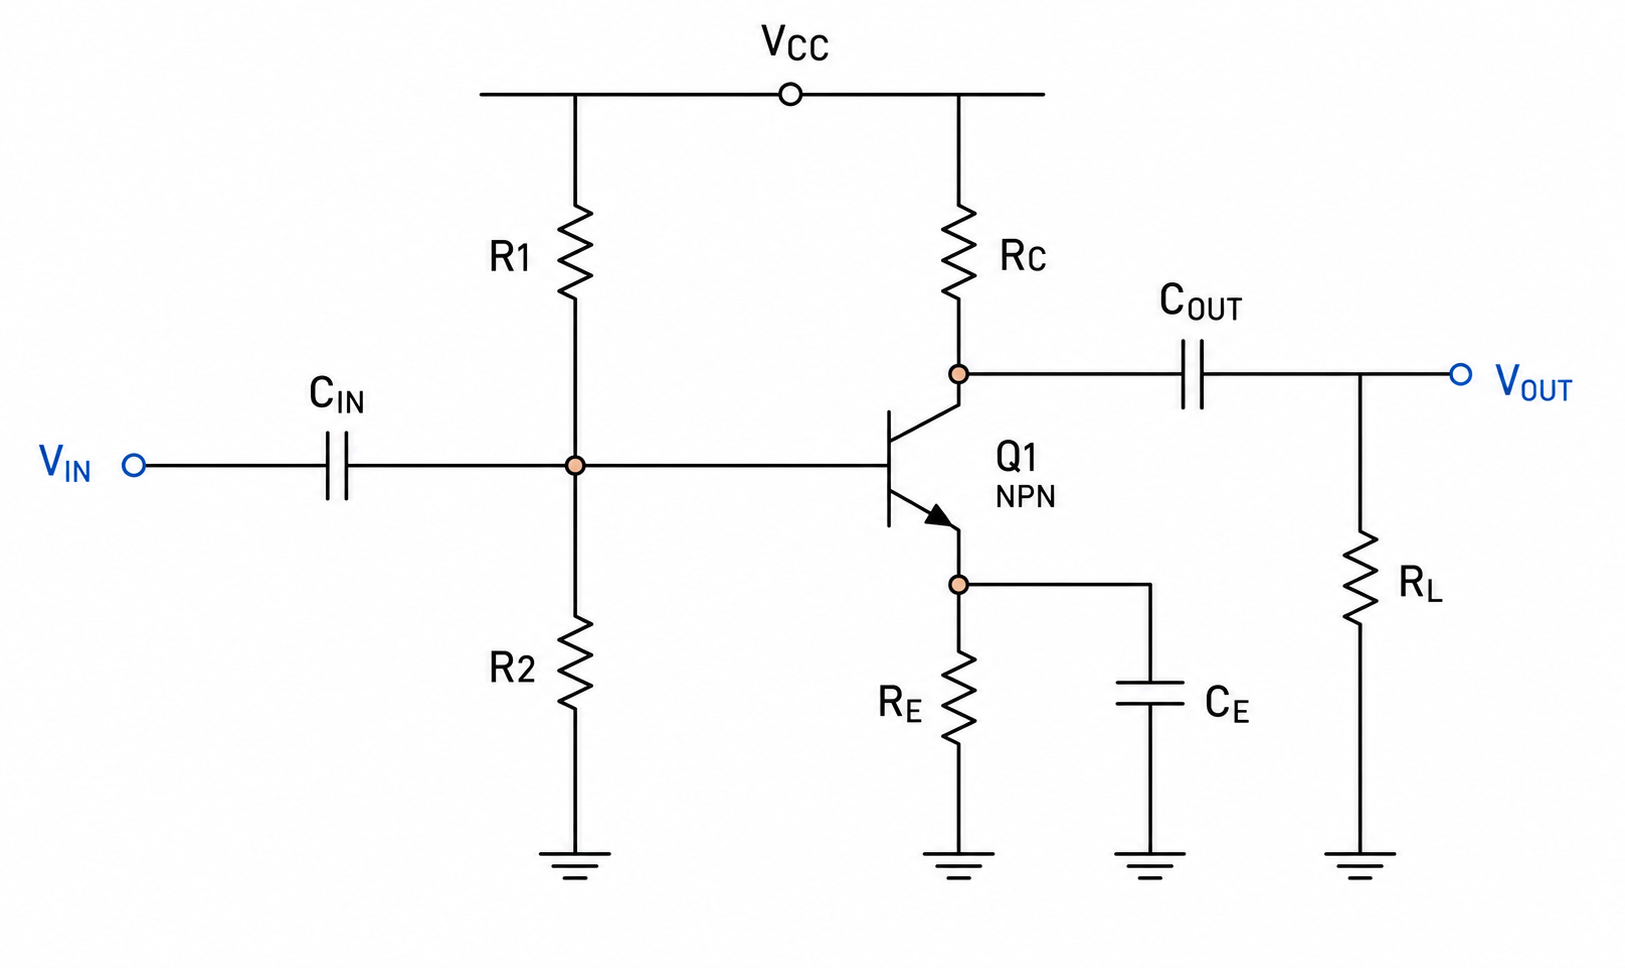
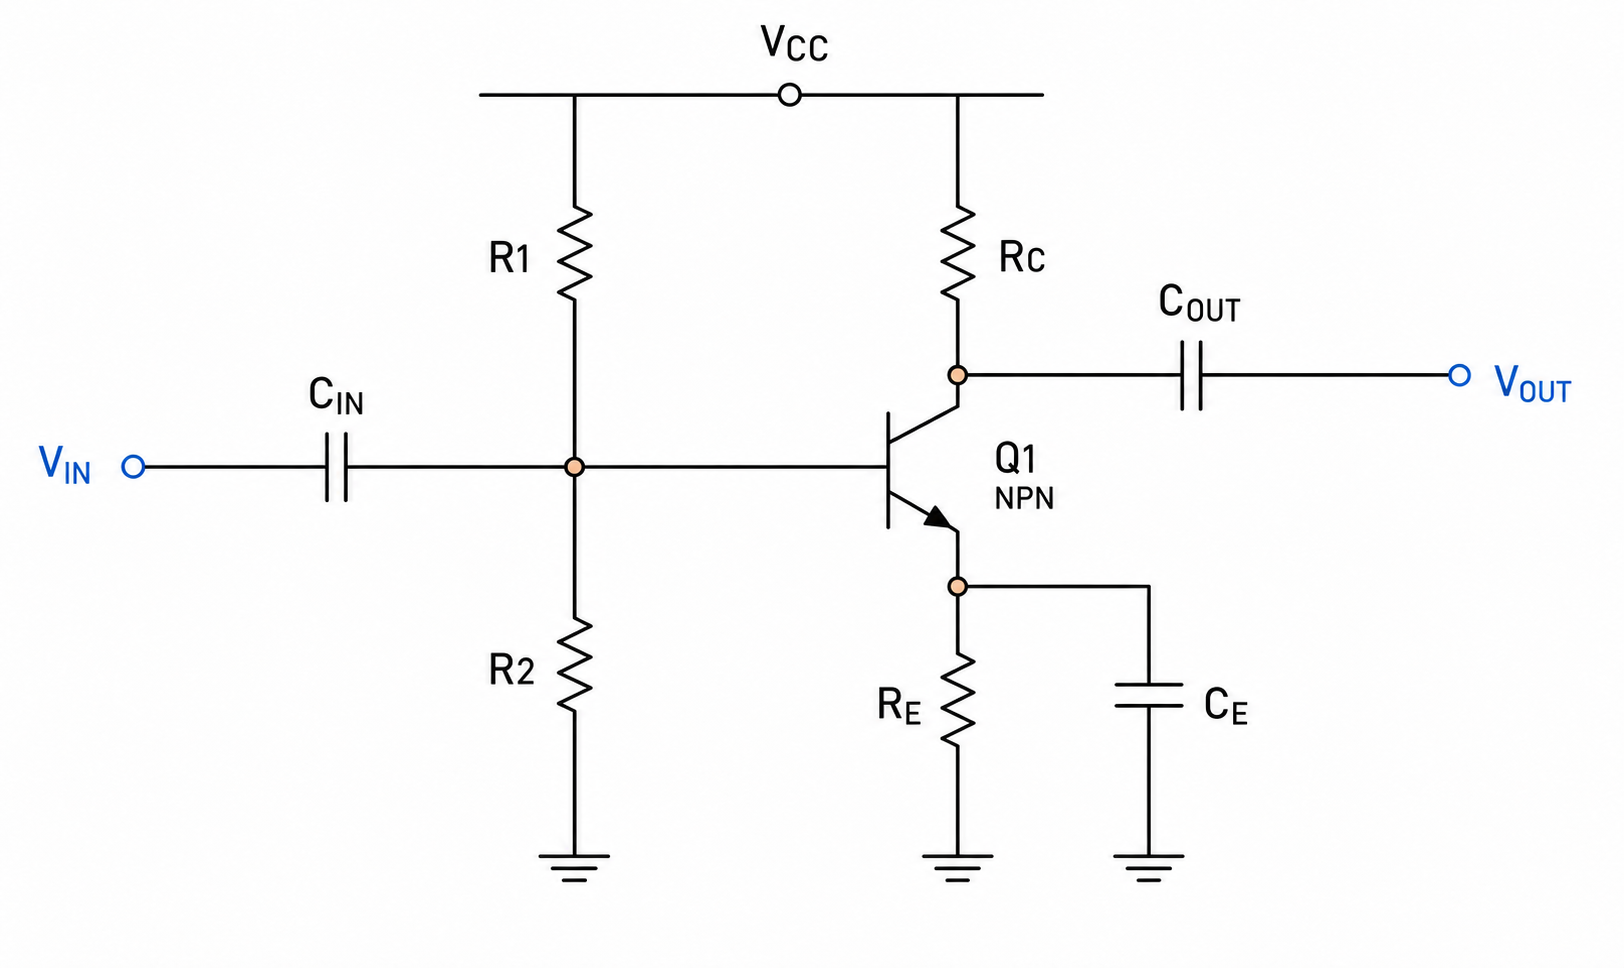
class a fixed

diff --git a/class-a.html b/class-a.html
@@ -35,15 +35,15 @@
       <a class="iae-back-command" href="tools.html">Back to tools</a>
       <p class="eyebrow">Instrument 001 / Amplification</p>
       <h2>Class A Transistor Amplifier Calculator</h2>
-      <p>Calculate the DC operating point and bypassed-emitter small-signal performance of a voltage-divider biased common-emitter amplifier.</p>
+      <p>Calculate unloaded midband voltage gain and verify the DC operating point of a voltage-divider biased common-emitter amplifier.</p>
     </div>
 
     <div class="iae-tool-layout">
       <div class="iae-tool-reference">
         <figure class="iae-technical-plate">
           <figcaption><span>Fig. 01</span> Voltage-divider biased Class A stage</figcaption>
-          <a class="iae-circuit-zoom" href="assets/class-a-amplifier-hd.png" target="_blank" title="Open full-resolution amplifier circuit">
-            <img src="assets/class-a-amplifier-hd.png" alt="Class A NPN transistor amplifier with divider bias">
+          <a class="iae-circuit-zoom" href="assets/class-a-amplifier-hd.png?v=20260621b" target="_blank" title="Open full-resolution amplifier circuit">
+            <img src="assets/class-a-amplifier-hd.png?v=20260621b" alt="Class A NPN transistor amplifier with divider bias">
           </a>
         </figure>
 
@@ -55,20 +55,25 @@
             <div class="iae-formula-row"><span>Collector and emitter currents</span><math display="block"><msub><mi>I</mi><mi>C</mi></msub><mo>=</mo><mi>beta</mi><msub><mi>I</mi><mi>B</mi></msub><mspace width="1em"/><msub><mi>I</mi><mi>E</mi></msub><mo>=</mo><mrow><mo>(</mo><mi>beta</mi><mo>+</mo><mn>1</mn><mo>)</mo></mrow><msub><mi>I</mi><mi>B</mi></msub></math></div>
             <div class="iae-formula-row"><span>Q-point voltage</span><math display="block"><msub><mi>V</mi><mi>CE</mi></msub><mo>=</mo><msub><mi>V</mi><mi>CC</mi></msub><mo>-</mo><msub><mi>I</mi><mi>C</mi></msub><msub><mi>R</mi><mi>C</mi></msub><mo>-</mo><msub><mi>I</mi><mi>E</mi></msub><msub><mi>R</mi><mi>E</mi></msub></math></div>
             <div class="iae-formula-row"><span>Intrinsic emitter resistance</span><math display="block"><msub><mi>r</mi><mi>e</mi></msub><mo>approximately</mo><mfrac><msub><mi>V</mi><mi>T</mi></msub><msub><mi>I</mi><mi>E</mi></msub></mfrac></math></div>
-            <div class="iae-formula-row"><span>Loaded voltage gain</span><math display="block"><msub><mi>A</mi><mi>v</mi></msub><mo>approximately</mo><mo>-</mo><mfrac><mrow><msub><mi>R</mi><mi>C</mi></msub><mo>parallel</mo><msub><mi>R</mi><mi>L</mi></msub></mrow><msub><mi>r</mi><mi>e</mi></msub></mfrac></math></div>
+            <div class="iae-formula-row"><span>Unloaded midband voltage gain</span><math display="block"><msub><mi>A</mi><mi>v</mi></msub><mo>approximately</mo><mo>-</mo><mfrac><msub><mi>R</mi><mi>C</mi></msub><msub><mi>r</mi><mi>e</mi></msub></mfrac></math></div>
             <div class="iae-formula-row"><span>Transistor dissipation</span><math display="block"><msub><mi>P</mi><mi>Q</mi></msub><mo>=</mo><msub><mi>V</mi><mi>CE</mi></msub><msub><mi>I</mi><mi>C</mi></msub></math></div>
           </div>
         </figure>
 
         <div class="iae-theory-note">
-          <h3>Model limits</h3>
-          <p>The calculation assumes a silicon NPN transistor, DC-coupled bias resistors, and capacitors that behave as AC shorts at the signal frequency. Beta and VBE vary substantially with device, temperature, and collector current.</p>
-          <p>Loaded gain uses RC in parallel with RL and a bypassed emitter. Real gain is reduced by transistor output resistance, source resistance, capacitor reactance, wiring parasitics, and loading by the following stage.</p>
+          <h3>Choosing the transistor bias</h3>
+          <p><strong>Choose the quiescent current first.</strong> Select ICQ from the transistor datasheet's recommended operating region, the required gain, noise, bandwidth, and permitted dissipation. For the bypassed-emitter model, |Av| is approximately RC / re and re is approximately 25.85 mV / IE, so increasing current raises gain but also raises heating and reduces available collector voltage.</p>
+          <p><strong>Use the transistor's VBE at that current.</strong> Do not assume 0.700 V for every device. Read the datasheet VBE versus IC curves, including temperature limits, or measure the intended transistor. Silicon small-signal devices are often between about 0.60 V and 0.75 V, but the calculator should use the value expected at ICQ and operating temperature.</p>
+          <p><strong>Place the Q-point for voltage swing.</strong> Choose VEQ, commonly around 10% to 20% of VCC, then set VBQ = VEQ + VBE. For approximately symmetrical collector swing, choose VCQ near (VCC + VEQ + VCE(sat)) / 2 and verify VCEQ, ICQ, and PQ = VCEQ ICQ remain within the datasheet safe operating area.</p>
+          <p><strong>Make the divider stiff enough.</strong> Estimate worst-case base current with the datasheet minimum beta, not its typical value. A practical divider current through R2 is five to ten times that base current. Then R2 is approximately VBQ / Idivider and R1 is approximately (VCC - VBQ) / (Idivider + IB). Recalculate the loaded divider with the minimum beta and check cutoff and saturation at temperature extremes.</p>
+
+          <h3>Gain model limits</h3>
+          <p>The displayed gain is the unloaded, bypassed-emitter midband estimate Av = -RC / re. The minus sign represents the common-emitter stage's 180-degree phase inversion. Actual gain is lower when CE is not an effective AC short, and because of source resistance, transistor output resistance, wiring parasitics, device bandwidth, and any external load connected to VOUT.</p>
         </div>
       </div>
 
       <aside class="iae-calculator-panel">
-        <div class="iae-calculator-header"><div><p class="eyebrow">Live computation</p><h3>Bias and Q-point</h3></div><div class="iae-model-badge">Common emitter / NPN</div></div>
+        <div class="iae-calculator-header"><div><p class="eyebrow">Live computation</p><h3>Gain and Q-point</h3></div><div class="iae-model-badge">Common emitter / NPN</div></div>
         <form data-class-a-form>
           <div class="iae-variable-grid">
             <label class="iae-variable-field"><span>Supply VCC</span><div><input name="vcc" type="number" min="0" step="any" value="9"><span class="iae-unit-static">V</span></div></label>
@@ -76,7 +81,6 @@
             <label class="iae-variable-field"><span>Divider R2</span><div><input name="r2" type="number" min="0" step="any" value="8.2"><select name="r2Unit"><option value="1">ohm</option><option value="1000" selected>kohm</option><option value="1000000">Mohm</option></select></div></label>
             <label class="iae-variable-field"><span>Collector resistor RC</span><div><input name="rc" type="number" min="0" step="any" value="1"><select name="rcUnit"><option value="1">ohm</option><option value="1000" selected>kohm</option><option value="1000000">Mohm</option></select></div></label>
             <label class="iae-variable-field"><span>Emitter resistor RE</span><div><input name="re" type="number" min="0" step="any" value="1"><select name="reUnit"><option value="1">ohm</option><option value="1000" selected>kohm</option><option value="1000000">Mohm</option></select></div></label>
-            <label class="iae-variable-field"><span>AC load RL</span><div><input name="rl" type="number" min="0" step="any" value="1"><select name="rlUnit"><option value="1">ohm</option><option value="1000" selected>kohm</option><option value="1000000">Mohm</option></select></div></label>
             <label class="iae-variable-field"><span>Current gain beta</span><div><input name="beta" type="number" min="1" step="any" value="100"><span class="iae-unit-static">hFE</span></div></label>
             <label class="iae-variable-field"><span>Base-emitter voltage VBE</span><div><input name="vbe" type="number" min="0" step="any" value="0.7"><span class="iae-unit-static">V</span></div></label>
             <label class="iae-variable-field"><span>Saturation voltage VCE(sat)</span><div><input name="vcesat" type="number" min="0" step="any" value="0.2"><span class="iae-unit-static">V</span></div></label>
@@ -84,7 +88,7 @@
           <div class="iae-calculator-actions"><button type="button" data-class-a-reset>Reset example</button></div>
         </form>
         <p class="iae-calculation-warning" data-class-a-warning hidden>Enter positive circuit values and a valid transistor beta.</p>
-        <div class="iae-primary-result"><p>Collector-emitter Q-point</p><strong data-class-primary-value>-</strong><span data-class-region>Awaiting values</span></div>
+        <div class="iae-primary-result"><p>Unloaded midband voltage gain</p><strong data-class-primary-value>-</strong><span data-class-region>Awaiting values</span></div>
         <dl class="iae-result-grid">
           <div><dt>Thevenin bias VTH</dt><dd data-class-result="vth">-</dd></div>
           <div><dt>Thevenin resistance RTH</dt><dd data-class-result="rth">-</dd></div>
@@ -96,11 +100,10 @@
           <div><dt>Collector voltage VC</dt><dd data-class-result="vc">-</dd></div>
           <div><dt>Transistor dissipation PQ</dt><dd data-class-result="pq">-</dd></div>
           <div><dt>Intrinsic emitter resistance re</dt><dd data-class-result="re">-</dd></div>
-          <div><dt>Loaded voltage gain Av</dt><dd data-class-result="gain">-</dd></div>
+          <div><dt>Collector-emitter Q-point VCE</dt><dd data-class-result="vce">-</dd></div>
           <div><dt>Input resistance Rin</dt><dd data-class-result="rin">-</dd></div>
           <div><dt>Approximate output resistance</dt><dd data-class-result="rout">-</dd></div>
           <div><dt>Maximum unclipped peak swing</dt><dd data-class-result="swing">-</dd></div>
-          <div class="iae-wide-result"><dt>Maximum sine power into RL</dt><dd data-class-result="power">-</dd></div>
         </dl>
         <button type="button" class="iae-copy-calculation" data-copy-class-a>Copy calculation summary</button>
       </aside>